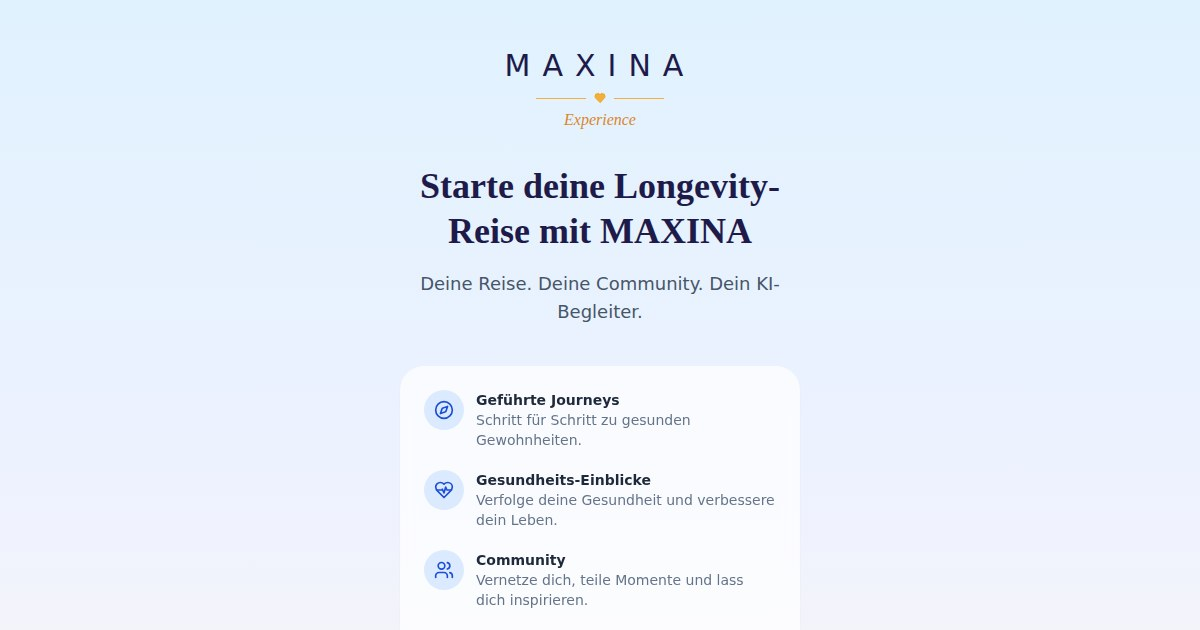
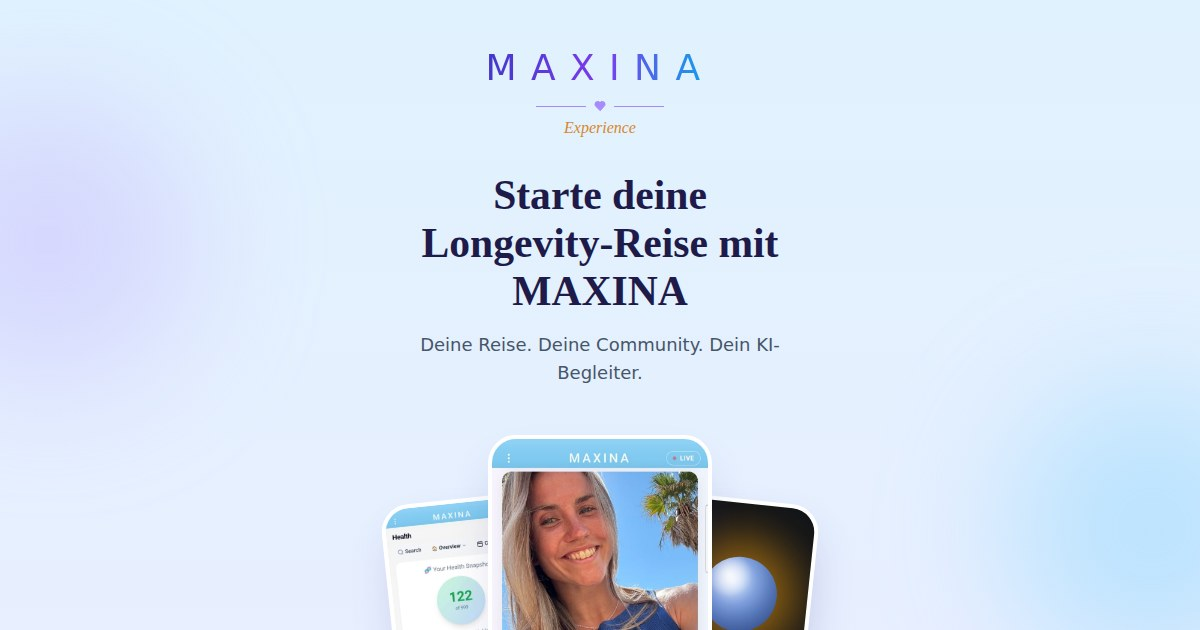
fix(flyer): working store badges + premium flyer redesign with consent-safe collage (#890)
* fix(flyer): working store badges + premium pearl redesign

- Store badges were dead inside the app: they used the Appilix
  launch_external bridge, which some shell builds silently drop (same
  trap webview.ts documents for OAuth). Badges now route through the
  proven redirectViaSystemBrowser helper (Android WebView: window.open
  "_system" -> intent:// fallback; iOS WKWebView + browsers: direct nav)
- Premium redesign after the marketing flyer: gradient MAXINA wordmark,
  serif headline, layered phone collage from real app screenshots, Vitana
  orb card, glass feature/join cards, iridescent pearl background
- Regenerated og-download.jpg from the new design

Claude-Session: https://claude.ai/code/session_01PiKt8GCXow9kg5omgYqVnW

* fix(flyer): faithful Vitana orb card using vitana-orb-clean.svg

The collage orb card used the purple galaxy avatar PNG, which looks
nothing like the real "Vitana spricht..." screen. Rebuild it with the
steel-blue orb asset, amber glow, caption from screens.common.vitanaSpeaking,
and mic/close controls, matching the in-app ORB screen.

Claude-Session: https://claude.ai/code/session_01PiKt8GCXow9kg5omgYqVnW

* Add files via upload

* fix(flyer): consent-safe collage — Mariia's solo post as center phone

Replace the center phone screenshot (which showed an unidentified person
next to Mariia, shared without consent) with Mariia's own solo post, and
re-crop the left phone to end above any people photos. Regenerated the
[…]

diff --git a/src/pages/DownloadFlyer.tsx b/src/pages/DownloadFlyer.tsx
@@ -1,22 +1,30 @@
 /**
  * MAXINA download flyer — public, no-auth landing page shared via the
- * "Invite a friend" flow. Renders the app pitch with App Store / Google
- * Play badges linking to the store listings.
+ * "Invite a friend" flow. Premium "pearl" design after the marketing
+ * flyer: gradient wordmark, serif headline, phone collage with real app
+ * screens, glass cards, and App Store / Google Play badges.
  *
  * Language: the invite link carries the SENDER's app language as ?lang=
  * (de|en). We force that locale for this page so a German user's flyer is
  * German for the recipient regardless of the recipient's device settings;
  * without a valid param the app's normal detection applies (de default).
+ *
+ * Store badges: opened via redirectViaSystemBrowser (lib/webview), NOT the
+ * Appilix `launch_external` bridge — the bridge gives no acknowledgment
+ * and some shell builds silently drop the action, leaving the badge dead
+ * (same failure mode webview.ts documents for OAuth). The shared link
+ * opens inside the MAXINA app via App Links, so the WebView path is the
+ * common case, not the exception.
  */
 
 import { useEffect, useReducer } from 'react';
 import { useSearchParams } from 'react-router-dom';
-import { Compass, HeartPulse, Leaf, Users, Heart } from 'lucide-react';
+import { Compass, HeartPulse, Leaf, Users, Heart, Mic, X } from 'lucide-react';
 import SEO from '@/components/SEO';
 import { ensureCatalog, onCatalogLoaded } from '@/i18n';
 import { setI18nLocale, t } from '@/lib/i18n-toast';
-import { isAppilix, launchExternal } from '@/lib/appilix';
-import { APP_STORE_URL, PLAY_STORE_URL } from '@/lib/store-links';
+import { redirectViaSystemBrowser } from '@/lib/webview';
+import { APP_STORE_URL, PLAY_STORE_URL, PLAY_STORE_MARKET_URL } from '@/lib/store-links';
 
 /** GA locales only — draft locales fall back to normal detection (de). */
 const LANG_TO_LOCALE: Record<string, string> = {
@@ -24,32 +32,51 @@ const LANG_TO_LOCALE: Record<string, string> = {
   en: 'en-US',
 };
 
-function StoreBadge({ href, src, alt }: { href: string; src: string; alt: string }) {
+function StoreBadge({ href, marketHref, src, alt }: { href: string; marketHref?: string; src: string; alt: string }) {
   const handleClick = (e: React.MouseEvent<HTMLAnchorElement>) => {
-    // Inside the Appilix WebView the store listing must open in the device
-    // browser / store app, not inside the shell.
-    if (isAppilix()) {
-      e.preventDefault();
-      launchExternal(href);
+    e.preventDefault();
+    // Android + Play badge: the OS-native market:// link opens the Play
+    // Store app directly (play.google.com refuses to render in WebViews).
+    // If the store didn't take over (page still visible), fall back to the
+    // https listing via the system browser.
+    if (marketHref && typeof navigator !== 'undefined' && /Android/i.test(navigator.userAgent)) {
+      window.location.href = marketHref;
+      window.setTimeout(() => {
+        if (!document.hidden) redirectViaSystemBrowser(href);
+      }, 1500);
+      return;
     }
+    // Everything else: the proven system-browser helper (Android WebView:
+    // window.open "_system" → intent:// fallback; iOS WKWebView + plain
+    // browsers: direct nav).
+    redirectViaSystemBrowser(href);
   };
   return (
     <a href={href} target="_blank" rel="noopener noreferrer" onClick={handleClick} className="inline-block transition-transform hover:scale-105">
-      <img src={src} alt={alt} className="h-12 w-auto" />
+      <img src={src} alt={alt} className="h-14 w-auto drop-shadow-md" />
     </a>
   );
 }
 
 function FeatureRow({ icon, title, body }: { icon: React.ReactNode; title: string; body: string }) {
   return (
-    <div className="flex items-start gap-3">
-      <div className="flex h-10 w-10 shrink-0 items-center justify-center rounded-full bg-blue-100 text-blue-700 dark:bg-blue-500/15 dark:text-blue-300">
+    <div className="flex items-start gap-3 text-left">
+      <div className="flex h-10 w-10 shrink-0 items-center justify-center rounded-full bg-indigo-100 text-indigo-700 dark:bg-indigo-500/15 dark:text-indigo-300">
         {icon}
       </div>
       <div className="min-w-0">
         <p className="text-sm font-semibold text-slate-800 dark:text-slate-100">{title}</p>
         <p className="text-sm text-slate-500 dark:text-slate-400">{body}</p>
       </div>
+    </div>
+  );
+}
+
+/** White-bezel phone frame around a real app screenshot. */
+function PhoneShot({ src, className, fill }: { src: string; className?: string; fill?: boolean }) {
+  return (
+    <div className={`overflow-hidden rounded-[1.75rem] border-4 border-white bg-white shadow-2xl shadow-indigo-900/20 dark:border-slate-700 dark:bg-slate-800 ${className ?? ''}`}>
+      <img src={src} alt="" aria-hidden="true" className={fill ? 'block h-full w-full object-cover object-top' : 'block w-full'} />
     </div>
   );
 }
@@ -70,18 +97,24 @@ export default function DownloadFlyer() {
   }
 
   return (
-    <div className="min-h-screen bg-gradient-to-b from-sky-100 via-indigo-50 to-orange-50 dark:from-slate-950 dark:via-indigo-950 dark:to-slate-900">
+    <div className="relative min-h-screen overflow-hidden bg-gradient-to-b from-sky-100 via-indigo-100/70 to-rose-50 dark:from-slate-950 dark:via-indigo-950 dark:to-slate-900">
+      {/* Iridescent pearl highlights */}
+      <div aria-hidden="true" className="pointer-events-none absolute -left-24 top-24 h-72 w-72 rounded-full bg-violet-300/40 blur-3xl dark:bg-violet-500/10" />
+      <div aria-hidden="true" className="pointer-events-none absolute -right-24 top-96 h-72 w-72 rounded-full bg-sky-300/40 blur-3xl dark:bg-sky-500/10" />
+      <div aria-hidden="true" className="pointer-events-none absolute bottom-24 left-1/4 h-72 w-72 rounded-full bg-amber-200/40 blur-3xl dark:bg-amber-500/10" />
+
       <SEO
         title={t('screens.downloadFlyer.seoTitle')}
         description={t('screens.downloadFlyer.seoDescription')}
         canonical="https://vitanaland.com/download"
       />
-      <div className="mx-auto flex max-w-md flex-col items-center px-6 py-12 text-center">
+
+      <div className="relative mx-auto flex max-w-md flex-col items-center px-6 py-12 text-center">
         {/* Brand */}
-        <h1 className="text-3xl font-light tracking-[0.4em] text-indigo-950 dark:text-indigo-100">
+        <h1 className="bg-gradient-to-r from-indigo-700 via-violet-600 to-sky-500 bg-clip-text text-4xl font-light tracking-[0.4em] text-transparent dark:from-indigo-300 dark:via-violet-300 dark:to-sky-300">
           {t('screens.downloadFlyer.brandName')}
         </h1>
-        <div className="mt-2 flex w-32 items-center gap-2 text-amber-500/80" aria-hidden="true">
+        <div className="mt-3 flex w-32 items-center gap-2 text-violet-400" aria-hidden="true">
           <span className="h-px flex-1 bg-current" />
           <Heart className="h-3 w-3 fill-current" />
           <span className="h-px flex-1 bg-current" />
@@ -91,15 +124,47 @@ export default function DownloadFlyer() {
         </p>
 
         {/* Headline */}
-        <h2 className="mt-8 font-serif text-4xl font-bold leading-tight text-indigo-950 dark:text-indigo-50">
+        <h2 className="mt-8 font-serif text-[2.6rem] font-bold leading-[1.15] text-indigo-950 dark:text-indigo-50">
           {t('screens.downloadFlyer.headline')}
         </h2>
         <p className="mt-4 text-lg text-slate-600 dark:text-slate-300">
           {t('screens.downloadFlyer.tagline')}
         </p>
 
+        {/* Phone collage — real app screens */}
+        <div className="relative mt-12 h-[440px] w-full">
+          {/* Side cards mirror each other: same size (w-36 h-64), same top
+              offset, opposite edge inset and rotation as the orb card. */}
+          <PhoneShot src="/images/flyer/phone-health.jpg" fill className="absolute -left-2 top-16 h-64 w-36 -rotate-6" />
+          {/* Vitana orb card — replica of the real "Vitana speaking" screen:
+              steel-blue orb (vitana-orb-clean.svg) with amber glow on a
+              near-black screen, caption + mic/close controls. */}
+          <div className="absolute -right-2 top-16 flex h-64 w-36 rotate-6 flex-col items-center justify-center gap-2.5 overflow-hidden rounded-[1.75rem] border-4 border-white bg-[#101318] shadow-2xl shadow-indigo-900/30 dark:border-slate-700">
+            <div className="relative">
+              <div aria-hidden="true" className="absolute inset-0 -m-4 rounded-full bg-amber-500/60 blur-xl" />
+              <img
+                src="/vitana-orb-clean.svg"
+                alt={t('screens.vitanaIdentity.orbAlt')}
+                className="relative h-20 w-20"
+              />
+            </div>
+            <p className="text-[9px] font-medium text-amber-400/90">
+              {t('screens.common.vitanaSpeaking')}
+            </p>
+            <div aria-hidden="true" className="mt-1 flex gap-2.5">
+              <span className="flex h-7 w-7 items-center justify-center rounded-full bg-[#1e3a5f]">
+                <Mic className="h-3.5 w-3.5 text-sky-300" />
+              </span>
+              <span className="flex h-7 w-7 items-center justify-center rounded-full bg-[#2a2f36]">
+                <X className="h-3.5 w-3.5 text-slate-300" />
+              </span>
+            </div>
+          </div>
+          <PhoneShot src="/images/flyer/phone-news.jpg" className="relative z-10 mx-auto w-56" />
+        </div>
+
         {/* Features */}
-        <div className="mt-10 w-full space-y-5 rounded-3xl bg-white/70 p-6 text-left shadow-sm backdrop-blur dark:bg-white/5">
+        <div className="z-10 -mt-6 w-full space-y-5 rounded-[2rem] bg-white/70 p-6 shadow-lg shadow-indigo-900/10 backdrop-blur-md dark:bg-white/5">
           <FeatureRow
             icon={<Compass className="h-5 w-5" />}
             title={t('screens.downloadFlyer.featureJourneysTitle')}
@@ -123,11 +188,16 @@ export default function DownloadFlyer() {
         </div>
 
         {/* Join card */}
-        <div className="mt-8 w-full rounded-3xl bg-gradient-to-r from-sky-200/80 via-indigo-200/80 to-orange-200/80 p-6 shadow-sm dark:from-sky-500/20 dark:via-indigo-500/20 dark:to-orange-500/20">
-          <p className="font-serif text-2xl font-bold text-indigo-950 dark:text-indigo-50">
+        <div className="mt-8 w-full rounded-[2rem] bg-white/60 p-8 shadow-lg shadow-indigo-900/10 backdrop-blur-md dark:bg-white/5">
+          <p className="bg-gradient-to-r from-indigo-800 via-violet-700 to-sky-600 bg-clip-text font-serif text-3xl font-bold text-transparent dark:from-indigo-200 dark:via-violet-200 dark:to-sky-200">
             {t('screens.downloadFlyer.joinTitle')}
           </p>
-          <p className="mt-1 text-sm text-slate-600 dark:text-slate-300">
+          <div className="mx-auto mt-3 flex w-24 items-center gap-2 text-violet-400" aria-hidden="true">
+            <span className="h-px flex-1 bg-current" />
+            <Heart className="h-3 w-3 fill-current" />
+            <span className="h-px flex-1 bg-current" />
+          </div>
+          <p className="mt-3 text-sm text-slate-600 dark:text-slate-300">
             {t('screens.downloadFlyer.joinSubtitle')}
           </p>
         </div>
@@ -141,6 +211,7 @@ export default function DownloadFlyer() {
           />
           <StoreBadge
             href={PLAY_STORE_URL}
+            marketHref={PLAY_STORE_MARKET_URL}
             src="/images/badges/google-play-badge.svg"
             alt={t('screens.downloadFlyer.badgeGooglePlayAlt')}
           />

diff --git a/src/lib/store-links.ts b/src/lib/store-links.ts
@@ -9,6 +9,13 @@ export const PLAY_STORE_URL =
   'https://play.google.com/store/apps/details?id=com.vitanaland.app';
 
 /**
+ * Android-native Play Store deep link. play.google.com pages refuse to run
+ * inside WebViews (the badge looked dead in the app), while market:// is
+ * resolved by the OS straight into the Play Store app.
+ */
+export const PLAY_STORE_MARKET_URL = 'market://details?id=com.vitanaland.app';
+
+/**
  * Apex domain (not window.location.origin) so recipients always land on the
  * canonical host that iOS Universal Links / Android App Links can claim,
  * regardless of which deploy (staging, PR preview) the sender was on.
